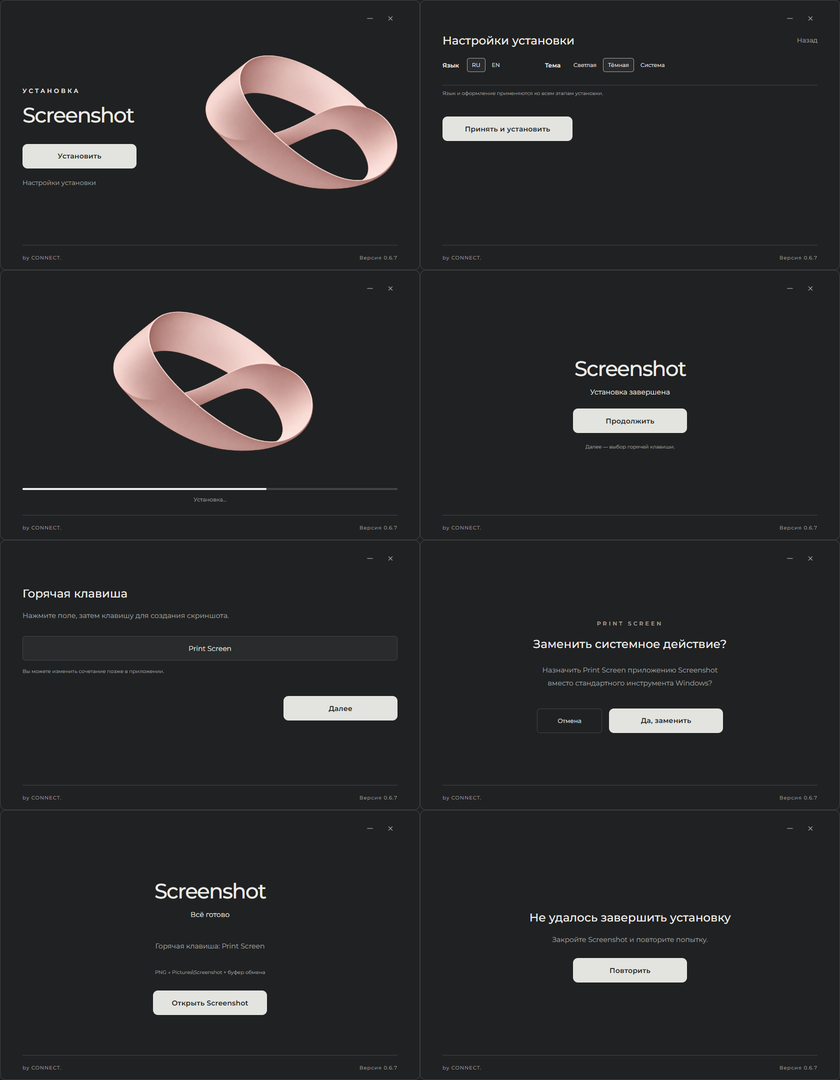
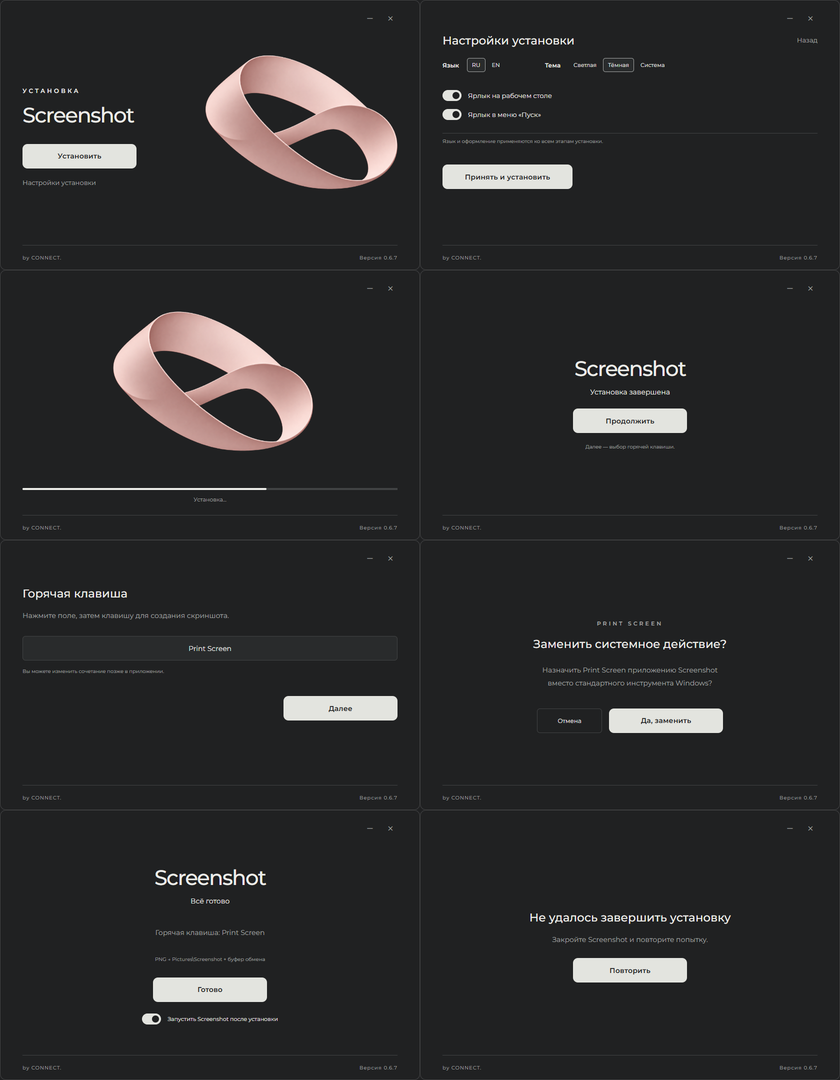
Add shortcut switches and final Done launch option to installer review

Changed region(s): [[0.1548, 0.7944, 0.3405, 0.9472], [0.5262, 0.0611, 0.681, 0.1833]]

diff --git a/installer-preview/style.css b/installer-preview/style.css
@@ -5,3 +5,5 @@
 
 /* Screenshot visual review: installer flow is unchanged. */
 html,body{width:840px;height:540px} .shell{height:540px;width:840px;border-radius:12px;overflow:hidden}.settings-link{display:block;margin-top:19px}.finish{display:flex;flex-direction:column;align-items:center;justify-content:center;padding-bottom:25px}.finish h1{margin-bottom:12px}.success{font-size:14px;margin:0 0 24px}.finish-hint{margin-top:20px}.description{font-size:14px;line-height:1.8;color:var(--muted);margin:18px 0 24px}.finish .description{text-align:center}.shortcut h2{margin:12px 0 0}.key-field{display:block;width:100%;height:49px;border:1px solid var(--line);border-radius:6px;background:var(--field);text-align:center;font-size:14px;margin:28px 0 14px}.shortcut>.primary{margin-top:28px;float:right}.setting-label{font-weight:600}.theme-choices{margin-right:0}.settings-rule{border-top:1px solid var(--line);margin-top:26px}.accept{margin-top:25px;width:260px}.actions{display:flex;gap:14px;align-items:center;margin-top:14px}.actions .outlined{height:49px;min-width:130px}.save-path{margin-bottom:28px}.confirm h2{margin:0 0 8px}.confirm .eyebrow{color:var(--muted);font-size:11px;margin-bottom:20px}#review{position:fixed;top:556px;left:0;width:100%;display:flex;gap:5px;flex-wrap:wrap;font:12px Montserrat;color:#687071}#review button{border:1px solid #d9d8d2;border-radius:5px;padding:8px}#review button[aria-current=true]{background:#e6e4df}#review span{padding:8px}.ribbon{width:440px;height:365px;right:-22px;top:-20px}.progress-ribbon{width:470px;height:305px;object-fit:contain}.finish h1{font-size:42px}@media(prefers-color-scheme:dark){:root[data-theme=system]{--bg:#202122;--text:#edede9;--muted:#a3a6a5;--line:#414344;--button:#e3e4df;--inverse:#202122;--field:#292b2c}}
+
+.shortcut-options{margin-top:28px}.shortcut-options+.settings-rule{margin-top:18px}

diff --git a/installer-preview/README.md b/installer-preview/README.md
@@ -2,7 +2,7 @@
 
 Open gallery.html for every screen, or index.html for an interactive visual walkthrough. No installation, shortcut registration, Windows changes or capture operations are performed. Bottom navigation is a review tool outside the installer frame.
 
-Visual source: sanderstripa/connect main, cmd/installer/web/style.css and index.html, retrieved 2026-10-19. Montserrat, 840x540 frame, spacing and light/dark tokens follow that installer. Version is 0.6.7. Browser-extension UI is omitted. Existing Screenshot install semantics remain unchanged: no new destination/shortcut options are introduced. Screenshot's existing System theme option is retained.
+Visual source: sanderstripa/connect main, cmd/installer/web/style.css and index.html, retrieved 2026-10-19. Montserrat, 840x540 frame, spacing and light/dark tokens follow that installer. Version is 0.6.7. Browser-extension UI is omitted. No new destination option is introduced. The review now includes the explicitly requested Desktop and Start menu shortcut switches, and the final Done action with a launch switch. These choices are interactive in the visual review; operating-system integration waits for approval. Screenshot's existing System theme option is retained.
 
 Ribbon: user-supplied pink artwork, original retained in assets/ribbon-original.png; assets/ribbon.png is the transparent-background derivative. Geometry and pink shading were preserved in the background-removal pass and visually inspected on both themes.
 
